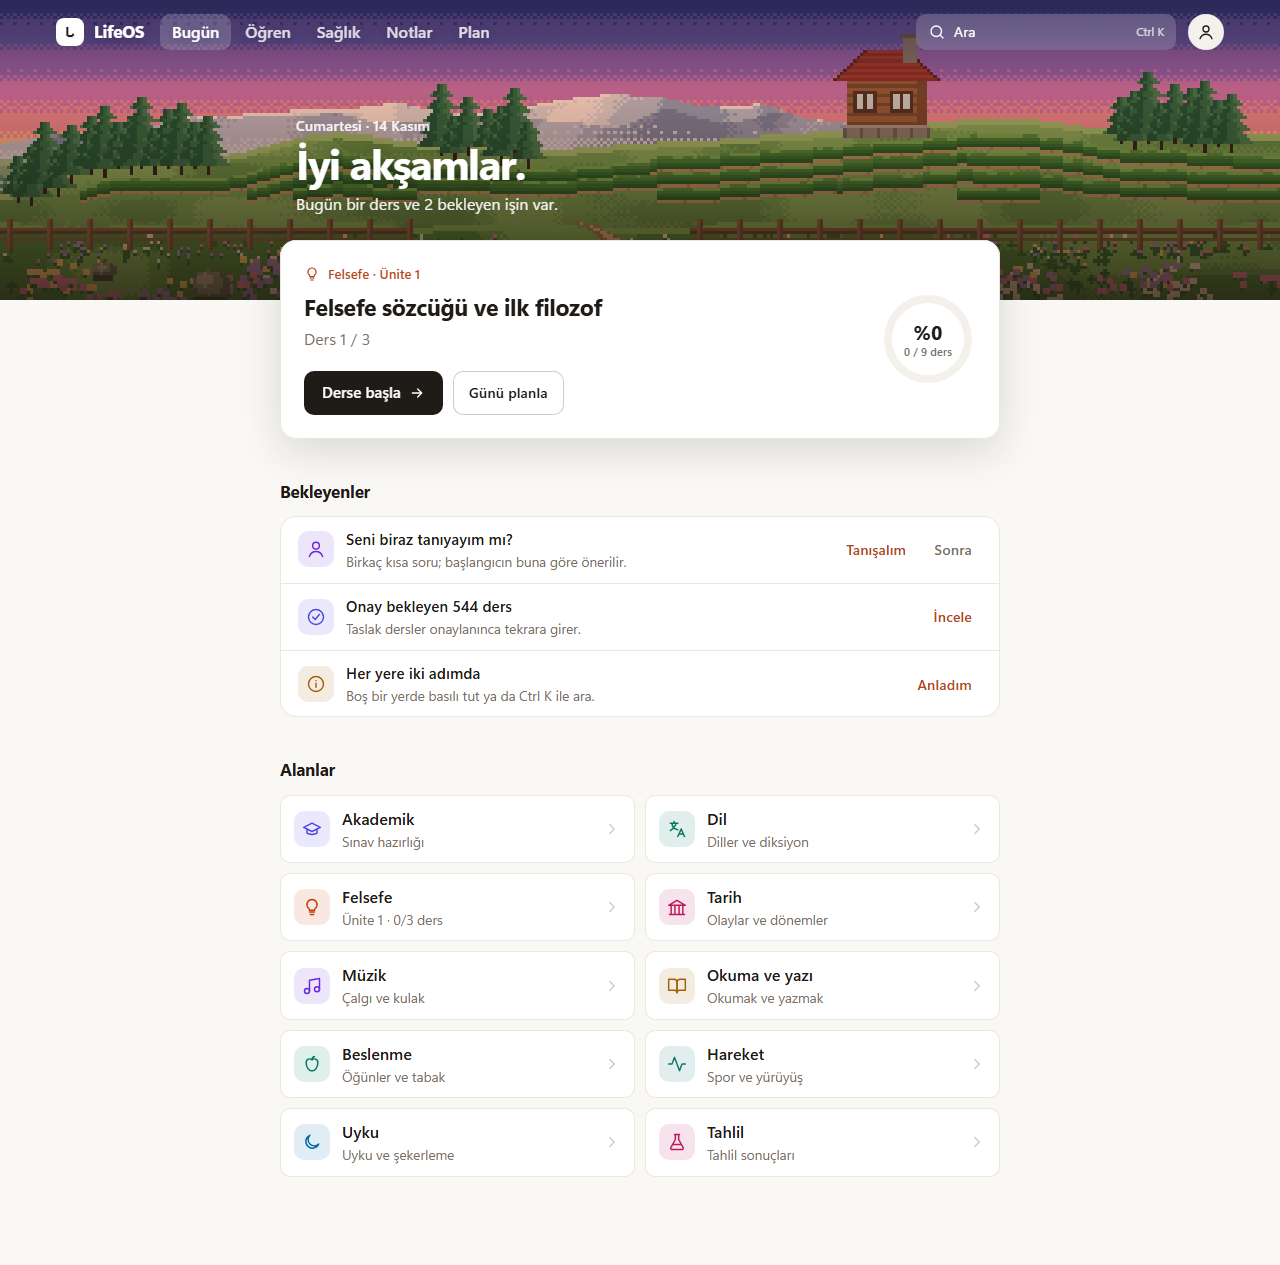
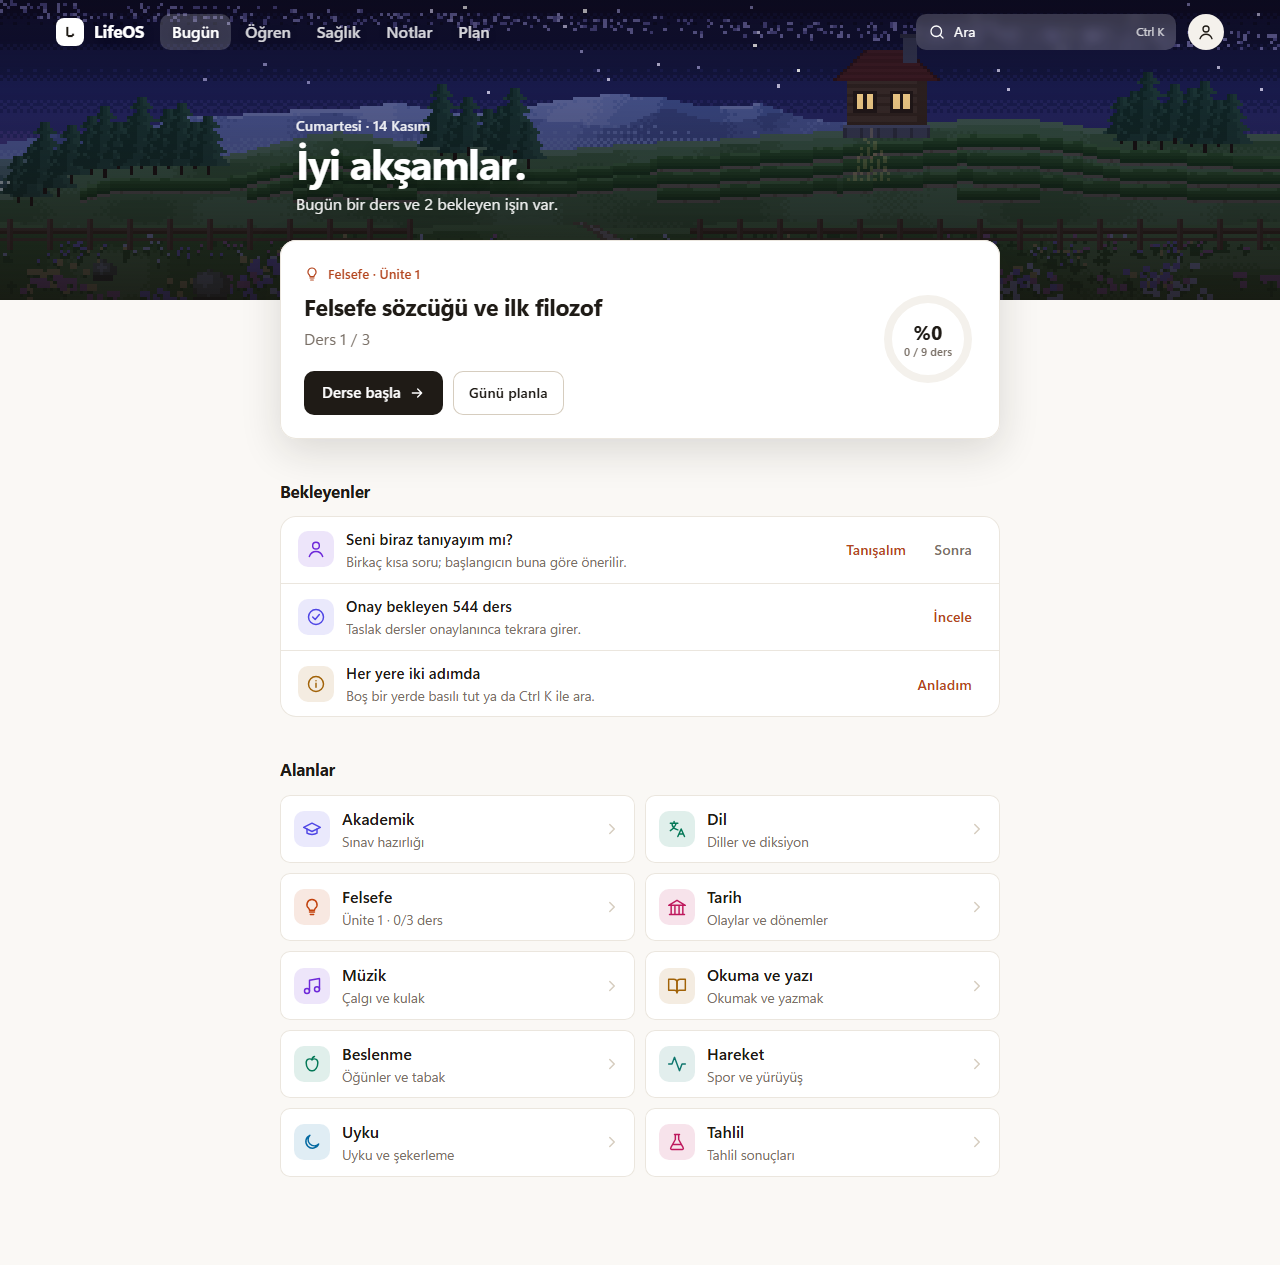
Kabuga karakter: her ana sayfada kendi piksel sahnesinden kapak, numarali dersler, kartta formlar
- Kapak (KAPAK): ana sayfalarda alanin kendi sahnesi (Felsefe magara, Dil deniz, Tarih col, Tekrar kis...)
  ince serit olarak, ust cubuk ustune biner, buyuk renkli simge alt kenara oturur; okuma/form sayfalarinda yok
- Sahne cizimi onbellekte (ayni sahne/saat/boy bir kez cizilir)
- Ders kartinda sira numarasi, okunan derste tik; okuma sayfasinda ferah yazi duzeni
- Arac formlari (kart, kayit, plan, arac) sakin kart icinde; sayfa girisinde hafif hareket (--sure'ye bagli)
- 5 yeni simge (ogren, saglik, motorlar, king, harita)

Changed region(s): [[0.0, 0.0, 1.0, 0.2466]]

diff --git a/kabuk/kabuk.js b/kabuk/kabuk.js
@@ -281,13 +281,25 @@
     return yer.dal === 'ogren' || yer.dal === 'saglik' ? yer.dal : '';
   }
   function cubuk(sahne) {
-    var ad = hesapAdi(), se = sahne ? 'bugun' : sekmeOf(simdiYer);
+    var ad = hesapAdi(), se = sekmeOf(simdiYer);
     return '<header class="ust ' + (sahne ? 'ust--sahne' : 'ust--duz') + '"><a class="ust__logo" href="#/bugun"><span class="ust__kare" aria-hidden="true">L</span>LifeOS</a>' +
       '<nav class="ust__sekmeler" aria-label="Ana bölümler">' + SEKME.map(function (s) { return '<a href="' + s[2] + '"' + (s[0] === se ? ' aria-current="page"' : '') + '>' + s[1] + '</a>'; }).join('') + '</nav>' +
       '<button type="button" class="ust__ara" data-ac="komut" aria-keyshortcuts="Control+K /" aria-label="Ara"><svg aria-hidden="true"><use href="#i-ara"/></svg><span aria-hidden="true">Ara</span><kbd>Ctrl K</kbd></button>' +
       '<a class="ust__hesap" href="#/ayarlar" aria-label="Ayarlar">' + (ad ? kac(ad.charAt(0).toLocaleUpperCase('tr')) : '<svg aria-hidden="true"><use href="#i-kisi"/></svg>') + '</a></header>';
   }
-  function ust(sol) { return cubuk(false) + '<nav class="konum" aria-label="Konum">' + sol + '</nav>'; }
+  // Kapak: ana sayfaların başında kendi piksel sahnesinden ince şerit ve üstüne binen renkli simge (okuma ve form sayfalarında yok).
+  // [sahne (brand/ortak/piksel-doga.js TUR_LISTE), renk]; simge index.html'deki #i-<yer kimliği>
+  var KAPAK = { felsefe: ['magara', 'turuncu'], akademik: ['tarla', 'mavi'], dil: ['deniz', 'yesil'], tarih: ['col', 'pembe'], muzik: ['selale', 'mor'],
+    okuma: ['kiraz', 'sari'], beslenme: ['tarla', 'yesil'], hareket: ['dag', 'deniz'], uyku: ['gol', 'gok'], tahlil: ['kis', 'pembe'],
+    ogren: ['yayla', 'mavi'], saglik: ['gol', 'yesil'], motorlar: ['dag', 'deniz'], yol: ['yayla', 'mavi'], tekrar: ['kis', 'mor'], soru: ['selale', 'turuncu'],
+    kayit: ['dag', 'deniz'], plan: ['tarla', 'yesil'], not: ['kiraz', 'sari'], arama: ['deniz', 'gok'], onay: ['kiraz', 'mavi'], king: ['dag', 'sari'], harita: ['yayla', 'mavi'] };
+  var kapakYer = null; // rota çizerken: bu sayfa kapaklı mı
+  function ust(sol) {
+    var k = kapakYer && KAPAK[kapakYer.id];
+    return cubuk(!!k) + (k ? '<div class="kapak" aria-hidden="true"><canvas class="kapak__sahne" width="480" height="72" data-sahne="' + k[0] + '"></canvas></div>' +
+      '<div class="kapak-alt" aria-hidden="true"><span class="kapak__simge"><span class="b-simge b-simge--' + k[1] + '"><svg><use href="#i-' + kapakYer.id + '"/></svg></span></span></div>' : '') +
+      '<nav class="konum" aria-label="Konum">' + sol + '</nav>';
+  }
   function kirinti(yer) {
     var ustYer = H.bul(H.DAL_SAYFASI[yer.dal]);
     if (!ustYer || ustYer.id === yer.id) ustYer = H.bul('bugun');
@@ -334,15 +346,23 @@
   }
   // manzara: sahibin piksel sahnesi (brand/ortak/piksel-doga.js, sunucu /piksel-doga.js verir); süstür, çizilmezse gök rengi kalır
   var manzaraIstendi = false;
+  // sahne çizimi önbellekte: aynı sahne, saat ve boy bir kez çizilir, sonraki sayfa çizimlerinde kopyalanır
+  var sahneOnbellek = {};
   function manzara() {
-    var c = sayfaEl.querySelector('.b-karsilama__manzara'), D = kok.LIFEOS && kok.LIFEOS.PIKSEL_DOGA;
+    var c = sayfaEl.querySelector('.b-karsilama__manzara, .kapak__sahne'), D = kok.LIFEOS && kok.LIFEOS.PIKSEL_DOGA;
     if (!c) return;
     if (!D) {
       if (location.protocol !== 'file:' && !manzaraIstendi) { manzaraIstendi = true; var b = d.createElement('script'); b.src = '/piksel-doga.js'; b.onload = manzara; d.head.appendChild(b); }
       return;
     }
-    if (innerWidth < 640) { c.width = 200; c.height = 134; }
-    try { D.binaCiz(c.getContext('2d'), D.yerlesim(c.width, c.height, D.vakit(new Date().getHours()), 'yayla')); } catch (e) { /* süs */ }
+    var kapak = c.classList.contains('kapak__sahne');
+    if (innerWidth < 640) { c.width = kapak ? 220 : 200; c.height = kapak ? 72 : 134; }
+    var saat = new Date().getHours(), tur = c.getAttribute('data-sahne') || 'yayla', ad = [tur, saat, c.width, c.height].join();
+    try {
+      var o = sahneOnbellek[ad];
+      if (!o) { o = d.createElement('canvas'); o.width = c.width; o.height = c.height; D.binaCiz(o.getContext('2d'), D.yerlesim(c.width, c.height, D.vakit(saat), tur)); sahneOnbellek[ad] = o; }
+      c.getContext('2d').drawImage(o, 0, 0);
+    } catch (e) { /* süs */ }
   }
   function sayfaDal(yer) {
     var ys = H.dalinYerleri(yer.dal);
@@ -413,9 +433,9 @@
           // kalabalık alanda (Akademik: 30 ünite) yalnız üzerinde çalışılan ünite açık gelir
           return B.acilir({ baslik: u.ad, acik: hepsiAcik || u.id === simdiki,
             not: u.gecti ? 'geçildi' : u.atlandi ? 'atlandı' + (yer_.etiket ? ' (' + yer_.etiket + ')' : '') + ' · ' + okunan + '/' + u.dersler.length + ' ders' : u.acik ? okunan + '/' + u.dersler.length + ' ders' : 'kilitli',
-            govde: [u.dersler.length ? B.liste({ ad: u.ad + ' dersleri', tur: 'ders', ogeler: u.dersler.map(function (x) {
+            govde: [u.dersler.length ? B.liste({ ad: u.ad + ' dersleri', tur: 'ders', ogeler: u.dersler.map(function (x, i) {
               var oz = (f.y.oge[x.id] || {}).ozet;
-              return x.acik ? { baslik: x.ad, ozet: oz, durum: x.okundu ? 'okundu' : 'yeni', taslak: x.etiket === 'taslak', href: F() + '/ders/' + x.id } : { baslik: x.ad, ozet: oz, durum: 'kilitli' };
+              return x.acik ? { no: i + 1, baslik: x.ad, ozet: oz, durum: x.okundu ? 'okundu' : 'yeni', taslak: x.etiket === 'taslak', href: F() + '/ders/' + x.id } : { no: i + 1, baslik: x.ad, ozet: oz, durum: 'kilitli' };
             }) }) : '', B.liste({ ad: u.ad + ' kapısı', ogeler: [kapiSatiri(u.id, 'Ünite kapısı', u.acik, u.kapi)] })] });
         }).join('') +
         B.bolum({ baslik: 'Aşama kapısı', govde: B.liste({ ad: 'Aşama kapısı', ogeler: [kapiSatiri(dr.asama.id, 'Aşama kapısı', dr.uniteler.every(function (u) { return u.gecti; }), dr.asama.kapi)] }) });
@@ -539,6 +559,7 @@
     var yer = H.YERLER.filter(function (y) { return y.yol === taban; })[0] || H.bul('bugun');
     simdiYer = yer;
     var html, tasindi = yer.katman === 'alan' && yer.asama, fa = alt && tasindi && /^(ders|kapi|asama|yer)\/([\w.-]+)$/.exec(alt[2]), ek = Kabuk.ek && Kabuk.ek[yer.id];
+    kapakYer = KAPAK[yer.id] && (!alt || (fa && fa[1] === 'asama')) ? yer : null;
     if (tasindi) { etkinYap(yer.id); if (!al()) alanYukle(yer.id).then(function () { if (sayfaEl.getAttribute('data-yer') === yer.id) rota(); }); }
     // aşama: «asama/2» ya da ders/kapı kimliğinin ikinci parçası (felsefe.2.1.3 → 2)
     if (fa) { var an = +(fa[1] === 'asama' ? fa[2] : fa[2].split('.')[1]); if (an >= 1) seciliAsama[yer.id] = an; }
@@ -556,7 +577,7 @@
     sayfaEl.innerHTML = html;
     sayfaEl.setAttribute('data-yer', yer.id);
     d.title = yer.ad + ' · LifeOS';
-    if (yer.id === 'bugun') manzara();
+    manzara();
     return yer;
   }
   function git(yol) { if (location.hash === yol) rota(); else location.hash = yol; }

diff --git a/kabuk/kabuk.css b/kabuk/kabuk.css
@@ -93,11 +93,16 @@ kbd{ font-size:.72rem; color:var(--soluk); border:2px solid var(--cizgi); paddin
 
 /* ---------------- ders ve kapı (Felsefe pilotu) ---------------- */
 .ders p, .ders ul:not([class]){ margin:0; max-width:64ch; } .ders ul:not([class]){ padding-left:16px; overflow-wrap:anywhere; } /* kaynak yolu boşluksuz uzun: telefonda taşmasın */
-.ders__ozet{ font-size:1.15rem; color:var(--yazi-2); padding-left:12px; box-shadow:inset 4px 0 0 var(--vurgu); }
+.ders p, .ders li{ font-size:1.0625rem; line-height:1.75; }
+.ders__ozet{ font-size:1.2rem; line-height:1.6; letter-spacing:-.005em; color:var(--yazi); padding:4px 0 4px 16px; box-shadow:inset 3px 0 0 var(--vurgu); }
 .kapi{ display:flex; flex-direction:column; gap:12px; }
 
 /* ---------------- araç ekranları (kabuk/araclar.js): yalnız yerleşim; parçalar bilesen.css'te ---------------- */
 .notform, .kartform, .aracform, .kayitform, .planform{ display:flex; flex-direction:column; gap:12px; }
+/* formlar sakin bir kartta: alanlar zeminden bir ton koyu, kart yüzeyde */
+.kartform, .kayitform, .planform, .aracform{ padding:20px; border-radius:var(--kose); background:var(--yuzey); box-shadow:inset 0 0 0 1px var(--cizgi); }
+:is(.kartform, .kayitform, .planform, .aracform) .b-alan__giris{ background:var(--bg); }
+:is(.kartform, .kayitform, .planform, .aracform) .b-alan__giris:focus{ background:var(--yuzey); }
 .ikili{ display:grid; grid-template-columns:1fr 1fr; gap:12px; }
 
 /* ---------------- hafta planı (kabuk/araclar.js sayfaPlanHafta): günler ızgarada, yalnız yerleşim ---------------- */
@@ -139,3 +144,19 @@ kbd{ font-size:.72rem; color:var(--soluk); border:2px solid var(--cizgi); paddin
 .ust--duz .ust__ara:hover{ box-shadow:inset 0 0 0 1px var(--cizgi-guclu); }
 @media (max-width:860px){ .ust__ara{ width:36px; padding:0; justify-content:center; } .ust__ara span, .ust__ara kbd{ display:none; } }
 @media (max-width:640px){ .ust__sekmeler{ display:none; } .ust__ara{ margin-left:auto; } }
+
+/* kapak (kabuk.js KAPAK): ana sayfaların başında kendi piksel sahnesinden ince şerit; üst çubuk üstüne biner, renkli simge alt kenarına oturur */
+.kapak{ position:relative; height:176px; margin:calc(-1 * max(12px,env(safe-area-inset-top))) calc(50% - 50vw) 0; background:var(--gok); overflow:hidden; }
+.kapak__sahne{ display:block; width:100%; height:100%; image-rendering:pixelated; }
+.kapak::after{ content:""; position:absolute; inset:0; background:linear-gradient(180deg, #140e1e8c 0%, #140e1e00 55%, #140e0a26 100%); pointer-events:none; }
+.kapak-alt{ position:relative; z-index:2; width:100%; max-width:720px; margin:-36px auto 0; }
+.kapak-alt:has(~ .govde--genis){ max-width:1040px; }
+.kapak__simge{ display:inline-grid; padding:4px; border-radius:calc(var(--kose) + 4px); background:var(--bg); box-shadow:var(--golge-yumusak); animation:kapak-gir calc(var(--sure) * 3) ease-out both; }
+.kapak__simge .b-simge{ width:64px; height:64px; border-radius:var(--kose); background:color-mix(in srgb, currentColor 14%, var(--yuzey)); }
+.kapak__simge .b-simge svg{ width:30px; height:30px; stroke-width:1.6; }
+.kapak-alt + .konum{ margin-top:14px; }
+@keyframes kapak-gir{ from{ opacity:0; transform:translateY(8px) scale(.94); } }
+@media (max-width:640px){ .kapak{ height:136px; } .kapak__simge .b-simge{ width:56px; height:56px; } }
+
+/* sayfa girişi: içerik hafifçe yukarı süzülür (hareket ayarı «az» ya da sistem azaltınca --sure 0) */
+.govde{ animation:gir calc(var(--sure) * 2) ease-out both; }

diff --git a/kabuk/index.html b/kabuk/index.html
@@ -40,6 +40,11 @@
   <symbol id="i-plan" viewBox="0 0 24 24"><rect x="3" y="5" width="18" height="16" rx="2"/><path d="M3 10h18M8 3v4M16 3v4"/></symbol>
   <symbol id="i-not" viewBox="0 0 24 24"><path d="M12 20h9"/><path d="M16.5 3.5a2.1 2.1 0 0 1 3 3L7 19l-4 1 1-4z"/></symbol>
   <symbol id="i-arama" viewBox="0 0 24 24"><circle cx="11" cy="11" r="7"/><path d="m20 20-3.5-3.5"/></symbol>
+  <symbol id="i-ogren" viewBox="0 0 24 24"><path d="m12 3 9 5-9 5-9-5z"/><path d="m3 13 9 5 9-5"/></symbol>
+  <symbol id="i-saglik" viewBox="0 0 24 24"><path d="M12 20s-7-4.4-7-10a4 4 0 0 1 7-2.6A4 4 0 0 1 19 10c0 5.6-7 10-7 10z"/></symbol>
+  <symbol id="i-motorlar" viewBox="0 0 24 24"><rect x="4" y="4" width="7" height="7" rx="1.5"/><rect x="13" y="4" width="7" height="7" rx="1.5"/><rect x="4" y="13" width="7" height="7" rx="1.5"/><rect x="13" y="13" width="7" height="7" rx="1.5"/></symbol>
+  <symbol id="i-king" viewBox="0 0 24 24"><path d="m3 8 4 4 5-7 5 7 4-4-2 11H5z"/></symbol>
+  <symbol id="i-harita" viewBox="0 0 24 24"><circle cx="12" cy="12" r="9"/><path d="m15.5 8.5-2 5-5 2 2-5z"/></symbol>
   <symbol id="i-dikkat" viewBox="0 0 24 24"><path d="M10.3 3.9 2.4 18a2 2 0 0 0 1.7 3h15.8a2 2 0 0 0 1.7-3L13.7 3.9a2 2 0 0 0-3.4 0z"/><path d="M12 9v4M12 17h.01"/></symbol>
 </svg>
 <a class="atla" href="#sayfa">İçeriğe geç</a>

diff --git a/kabuk/bilesen.css b/kabuk/bilesen.css
@@ -59,6 +59,10 @@ a.b-ders:hover{ box-shadow:inset 0 0 0 1px var(--cizgi-guclu), var(--golge-yumus
 .b-ders__baslik{ font-family:var(--govde); font-weight:600; font-size:1.05rem; white-space:nowrap; overflow:hidden; text-overflow:ellipsis; }
 .b-ders__ozet{ flex:1; font-size:1rem; color:var(--yazi-2); overflow:hidden; display:-webkit-box; -webkit-box-orient:vertical; -webkit-line-clamp:2; line-clamp:2; }
 .b-ders__alt{ display:flex; align-items:center; gap:8px; height:1.5rem; font-size:.85rem; color:var(--soluk); white-space:nowrap; }
+.b-ders__no{ display:inline-grid; place-items:center; width:24px; height:24px; margin-right:10px; vertical-align:2px; border-radius:var(--kose); font-size:.75rem; font-weight:650;
+  color:var(--yazi-2); background:var(--yuzey-2); box-shadow:inset 0 0 0 1px var(--cizgi); font-variant-numeric:tabular-nums; }
+.b-ders__no svg{ width:13px; height:13px; fill:none; stroke:currentColor; stroke-width:2.5; stroke-linecap:round; stroke-linejoin:round; }
+.b-ders--okundu .b-ders__no{ color:var(--vurgu-yazi); background:var(--vurgu); box-shadow:none; }
 .b-ders--kilitli{ color:var(--soluk); background:transparent; box-shadow:inset 0 0 0 1px var(--cizgi); }
 .b-ders--kilitli .b-ders__baslik{ color:var(--soluk); }
 .b-ders--kilitli .b-ders__ozet{ color:var(--soluk); }

diff --git a/kabuk/bilesen.js b/kabuk/bilesen.js
@@ -113,7 +113,8 @@
     nesne('ders', o);
     var durum = sec('ders', 'durum', o.durum, ['yeni', 'okundu', 'kilitli']);
     var sure = o.sure == null ? '' : (typeof o.sure === 'number' && o.sure > 0 && isFinite(o.sure) ? o.sure : hata('ders', 'sure pozitif dakika olmalı'));
-    var ic = '<span class="b-ders__baslik">' + kac(metin('ders', 'baslik', o.baslik)) + '</span>' +
+    var no = o.no == null ? '' : '<span class="b-ders__no" aria-hidden="true">' + (durum === 'okundu' ? '<svg><use href="#i-tik"/></svg>' : (+o.no || '')) + '</span>';
+    var ic = '<span class="b-ders__baslik">' + no + kac(metin('ders', 'baslik', o.baslik)) + '</span>' +
       '<span class="b-ders__ozet">' + kac(metin('ders', 'ozet', o.ozet, true)) + '</span>' +
       '<span class="b-ders__alt">' + pul(DERS_DURUM[durum]) + (o.taslak ? pul({ metin: 'taslak', tur: 'kesik' }) : '') +
       (sure ? '<span>' + sayiYaz(sure) + ' dk</span>' : '') + '</span>';
